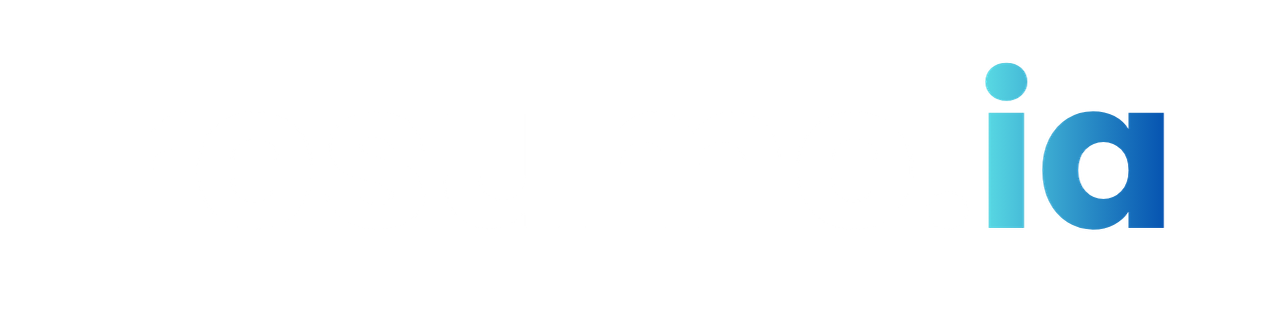
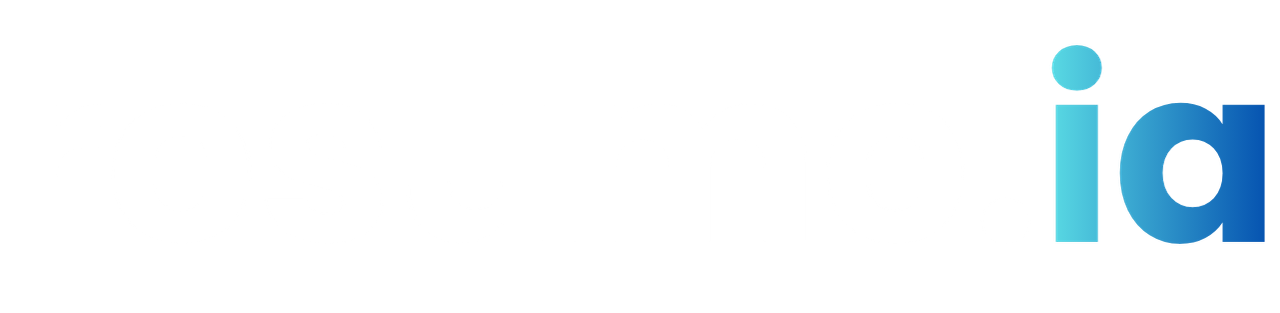
fix readme

Changed region(s): [[0.75, 0.3163, 1.0, 0.7764], [0.75, 0.1438, 0.875, 0.3163]]

diff --git a/src/main/java/com/project/resumeia/controllers/UserController.java b/src/main/java/com/project/resumeia/controllers/UserController.java
@@ -17,10 +17,12 @@ public class UserController {
 
     private final AuthenticationService authenticationService;
 
+    /*
     @GetMapping("/test")
     public String testApi(){
         return "API funcionando!";
     }
+    */
 
     @PostMapping("/register")
     public ResponseEntity<User> registerUser(@Validated @RequestBody UserDTO requestBodyDto) throws Exception{

diff --git a/README.md b/README.md
@@ -1,18 +1,20 @@
+![Resume IA](https://raw.githubusercontent.com/Vinidevkz/resumeia/main/src/src/resumeia.png)
 
-# Resume IA
+<h4 align="center">Obtenha feedbacks precisos sobre curriculos.</h3>
 
- Obtenha feedbacks precisos sobre curriculos.
+**📎 Site: em desenvolvimento**
 
 
 ## 🚀 Sobre o projeto
- O Resume IA é uma plataforma de avaliações de curricuos com inteligência artificial. Os usuários podem fazer upload de seus curriculos e receber um feedback sobre o mesmo, envolvendo análise da formatação e sobre as informações contidas no mesmo. 
+O Resume IA é uma plataforma de avaliações de curricuos com
+inteligência artificial. Os usuários podem fazer
+upload de seus curriculos e receber um feedback sobre o mesmo,
+envolvendo análise da formatação e sobre as informações contidas no mesmo.
 
 
 ## ⚙️ Tecnologias utilizadas
 
-**Cliente:** React.
-
-**Servidor:** Java, Spring Framework e PostgreSQL.
+**Servidor:** Java, Spring Framework, PostgreSQL, Google Gemini ⭐.
 
 ## 📝 API Reference
 
@@ -27,7 +29,7 @@
 | :-------- | 
 | `Dados do usuário`      | 
 
-#### 🔓 Login de usuário 
+#### 🔓 Login de usuário
 
 ```http
   POST /v1/auth/users/login
@@ -37,7 +39,7 @@
 | :-------- | 
 | `Token JWT`      |
 
-#### 🔄 Alteração de dados do usuário 
+#### 🔄 Alteração de dados do usuário
 
 ```http
   POST /v1/auth/users/update
@@ -47,7 +49,7 @@
 | `json com os dados do usuario`      | `user` |
 | `id do usuário`      | `long` |
 
-#### ❌ Deletar usuário 
+#### ❌ Deletar usuário
 
 ```http
   POST /v1/auth/users/delete